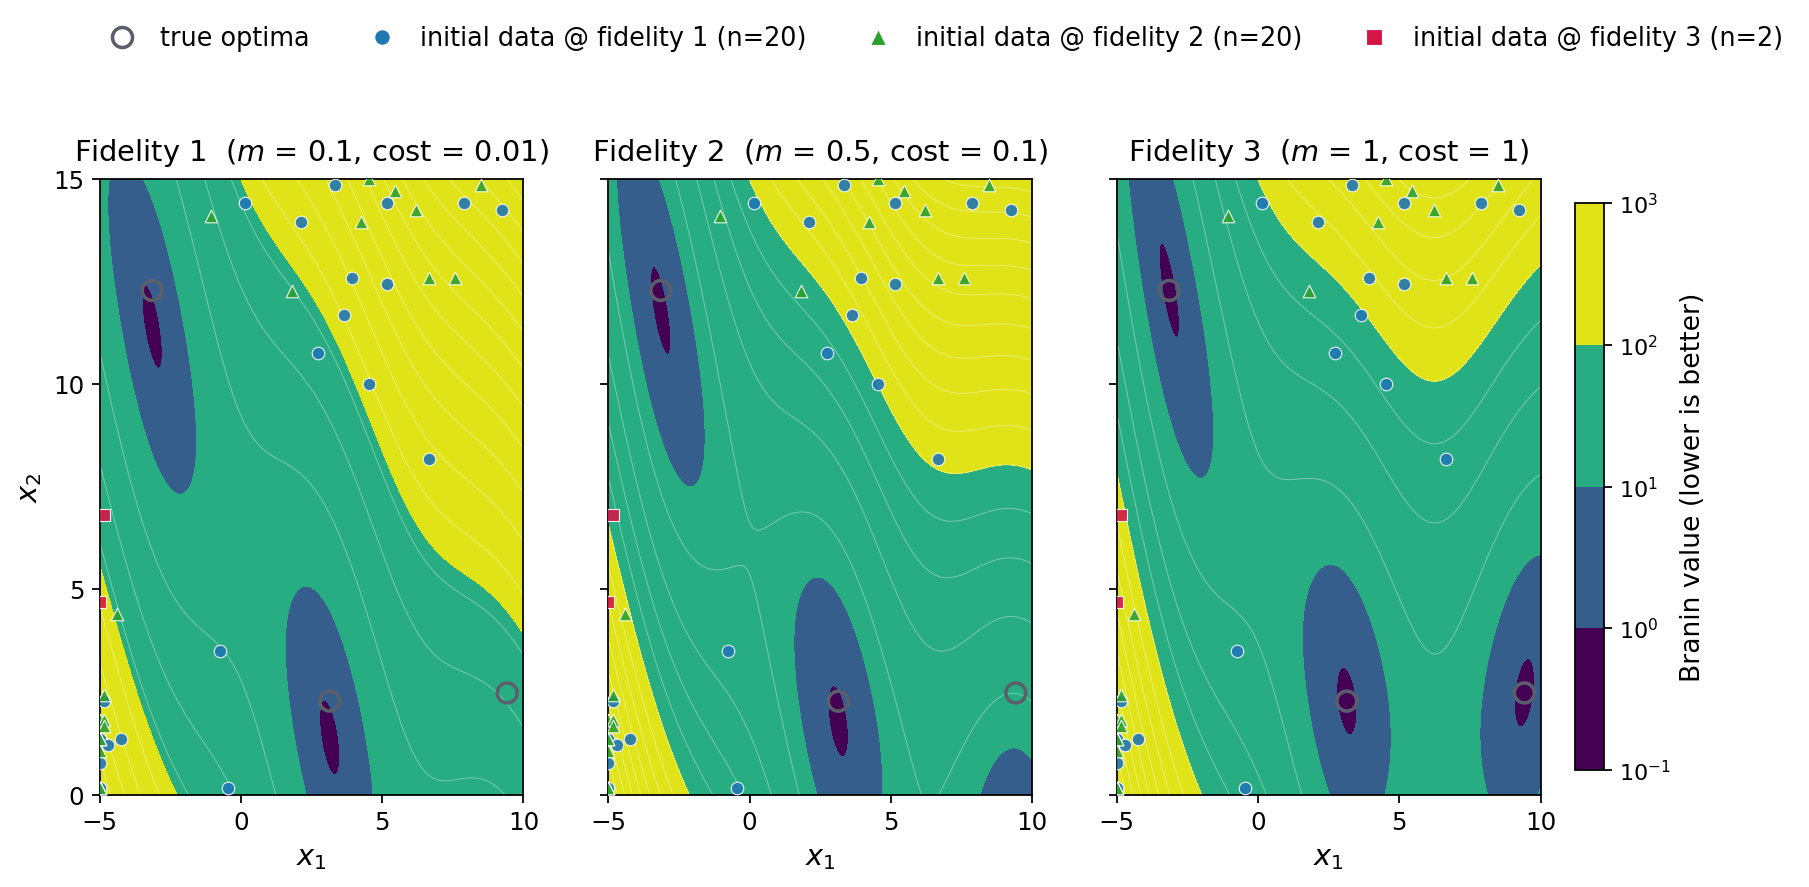
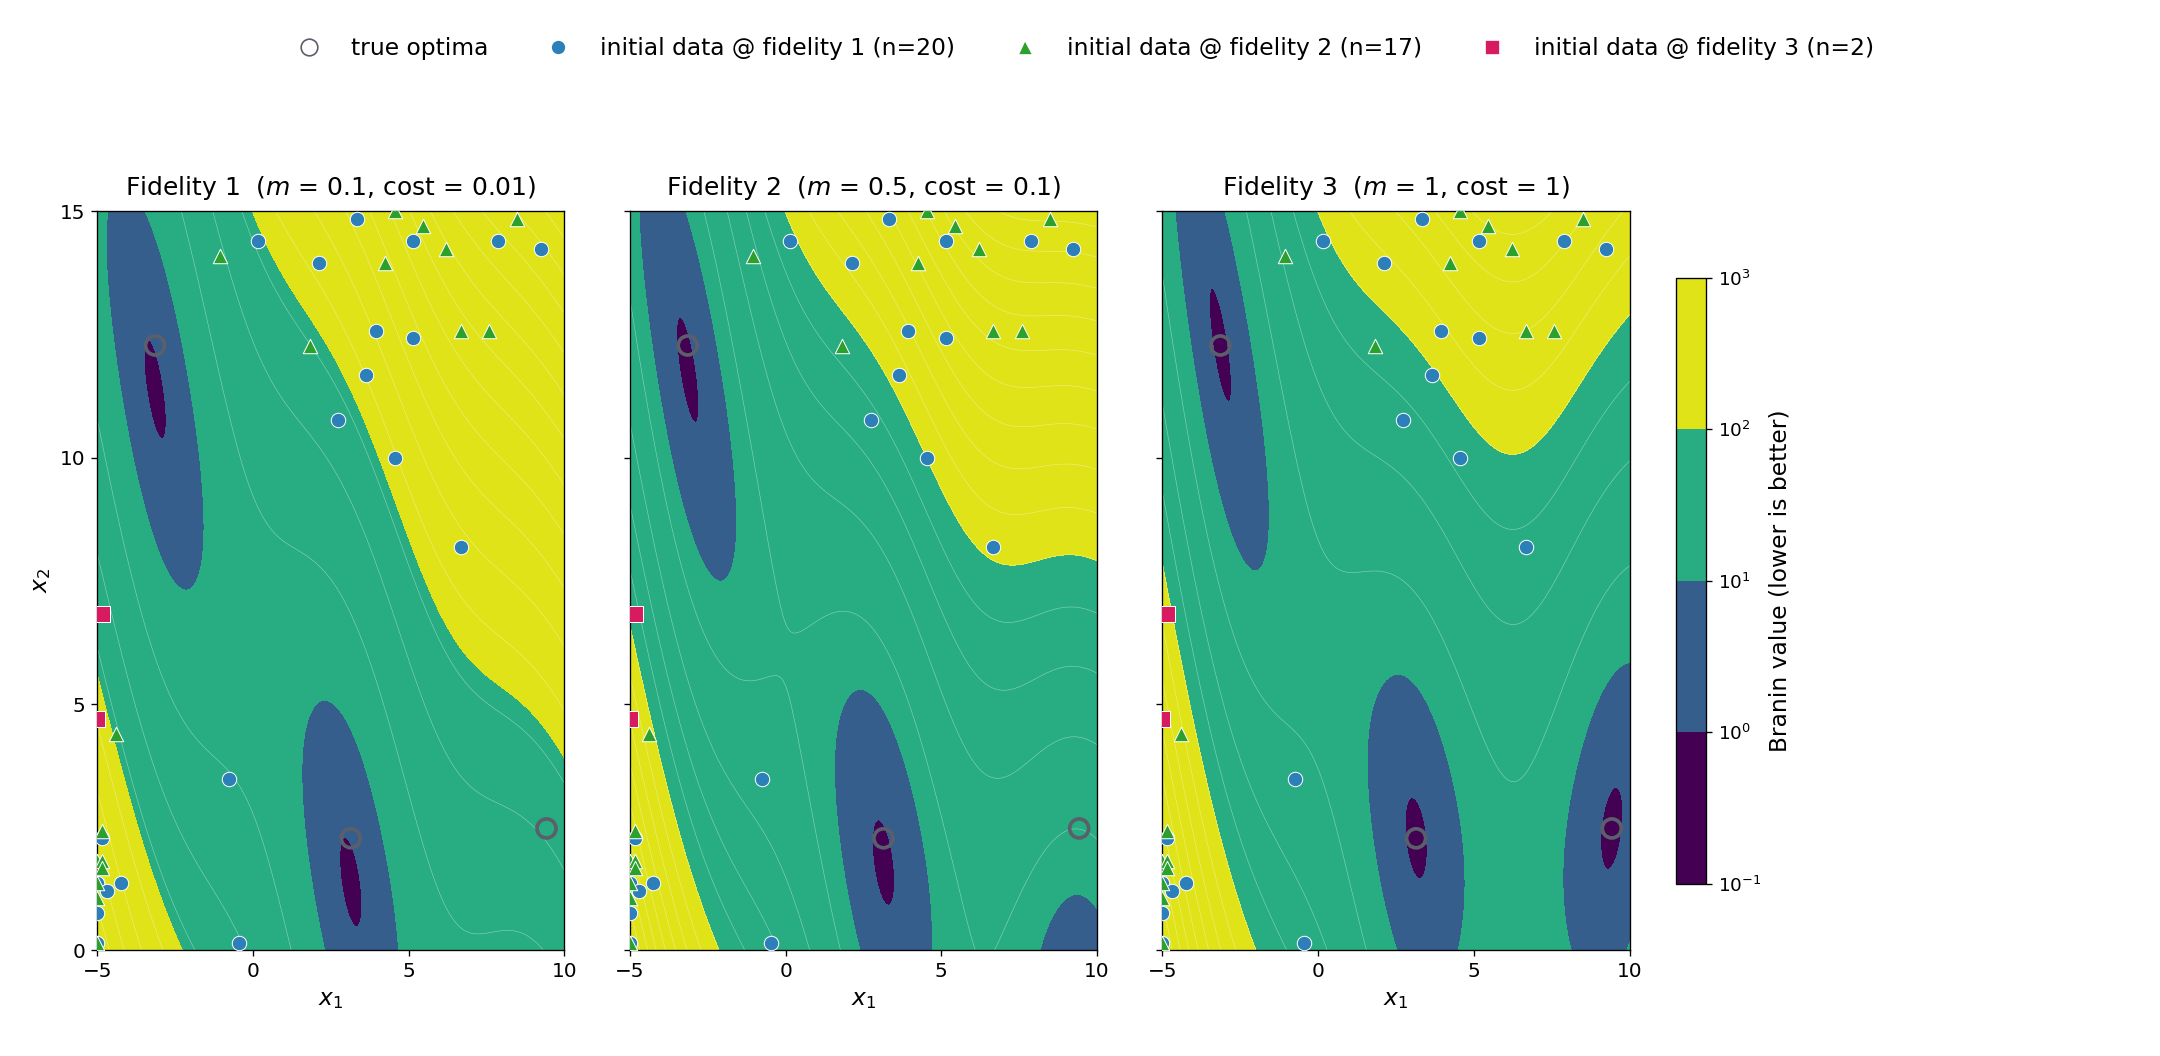
fix duplicate observations on branin initial data

diff --git a/docs/tutorials/branin_benchmark.md b/docs/tutorials/branin_benchmark.md
@@ -112,9 +112,9 @@ Every method shares the same protocol:
 - Oracle fidelities `[1, 2, 3]` with costs `[0.01, 0.1, 1.0]` and confidences
   `[0.1, 0.5, 1.0]`. Cost determines budget consumption; confidence determines
   which deformed Branin landscape is evaluated.
-- The same 42 initial $x$-locations across all methods. The MF method observes
-  20 at fidelity 1, 20 at fidelity 2, and 2 at fidelity 3; each SF baseline
-  observes all 42 at its one available fidelity.
+- The same 37 unique initial $x$-locations across all methods. The MF method
+  observes 20 at fidelity 1, 17 at fidelity 2, and 2 at fidelity 3; each SF
+  baseline observes all 37 at its one available fidelity.
 
 The figure shows the MF initial dataset overlaid on each landscape. Marker
 style indicates the fidelity at which each point was observed, even when that
